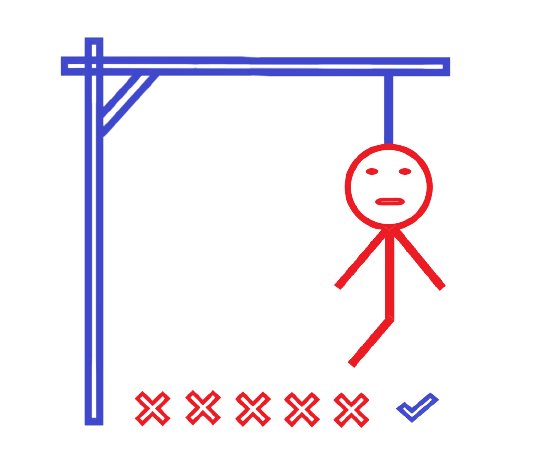
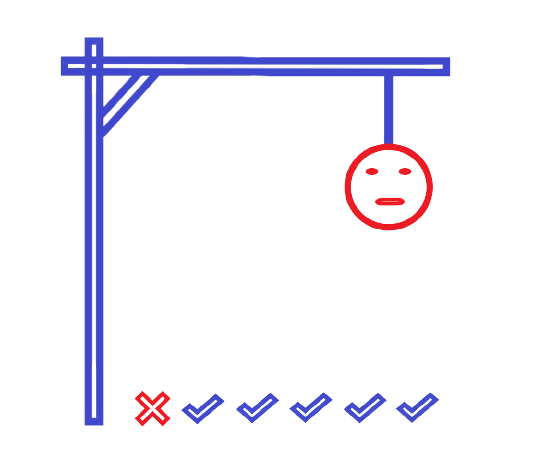
repair image sequence and life

diff --git a/src/StartGameController.java b/src/StartGameController.java
@@ -14,13 +14,13 @@ import javafx.scene.image.ImageView;
 import javafx.stage.Stage;
 
 public class StartGameController {
-    Image imageLife0 = new Image(getClass().getResourceAsStream("Image/0.png"));
-    Image imageLife1 = new Image(getClass().getResourceAsStream("Image/1.png"));
-    Image imageLife2 = new Image(getClass().getResourceAsStream("Image/2.png"));
+    Image imageLife0 = new Image(getClass().getResourceAsStream("Image/end.png"));
+    Image imageLife1 = new Image(getClass().getResourceAsStream("Image/5.png"));
+    Image imageLife2 = new Image(getClass().getResourceAsStream("Image/4.png"));
     Image imageLife3 = new Image(getClass().getResourceAsStream("Image/3.png"));
-    Image imageLife4 = new Image(getClass().getResourceAsStream("Image/4.png"));
-    Image imageLife5 = new Image(getClass().getResourceAsStream("Image/5.png"));
-    Image imageLife6 = new Image(getClass().getResourceAsStream("Image/6.png"));
+    Image imageLife4 = new Image(getClass().getResourceAsStream("Image/2.png"));
+    Image imageLife5 = new Image(getClass().getResourceAsStream("Image/1.png"));
+    Image imageLife6 = new Image(getClass().getResourceAsStream("Image/0.png"));
 
     @FXML
     private Label hint;
@@ -172,8 +172,7 @@ public class StartGameController {
         else if(life == 4) img.setImage(imageLife3);
         else if(life == 3) img.setImage(imageLife4);
         else if(life == 2) img.setImage(imageLife5);
-        else if(life == 1) img.setImage(imageLife6);
-        else if(life == 0) {
+        else if(life == 1) {
             img.setImage(imageLife0);
             hint_label.setText("The word is: " + word);
         }
